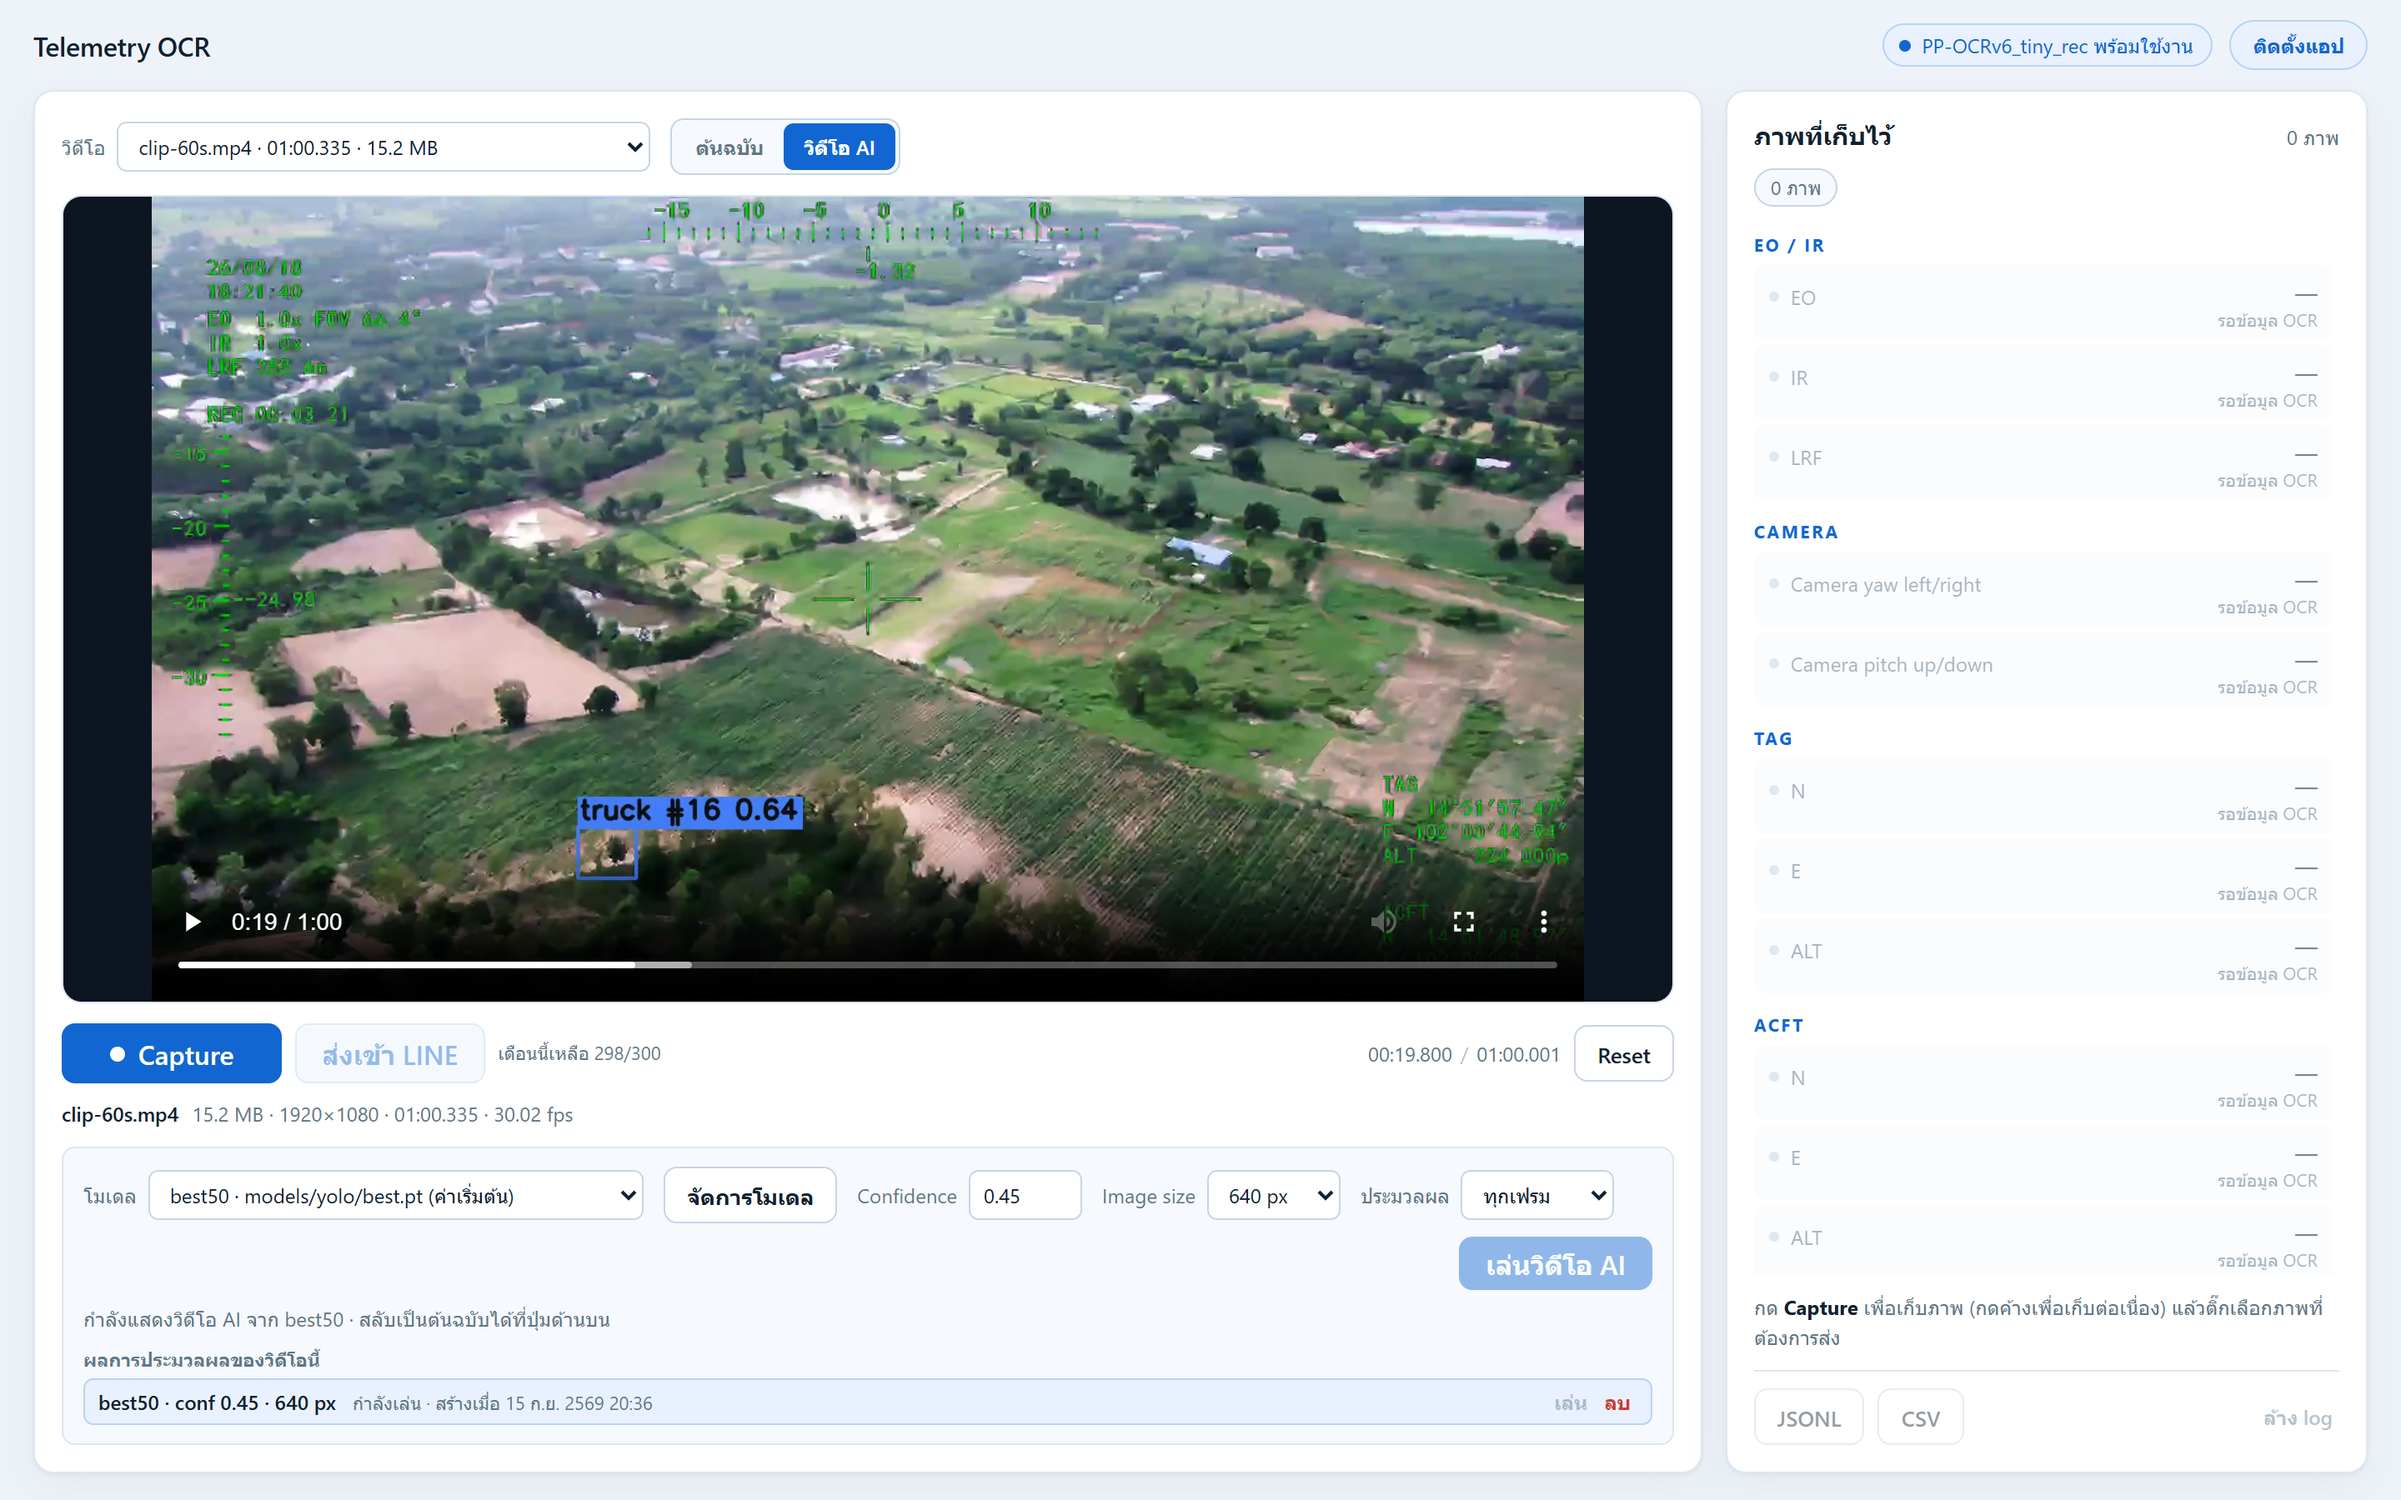
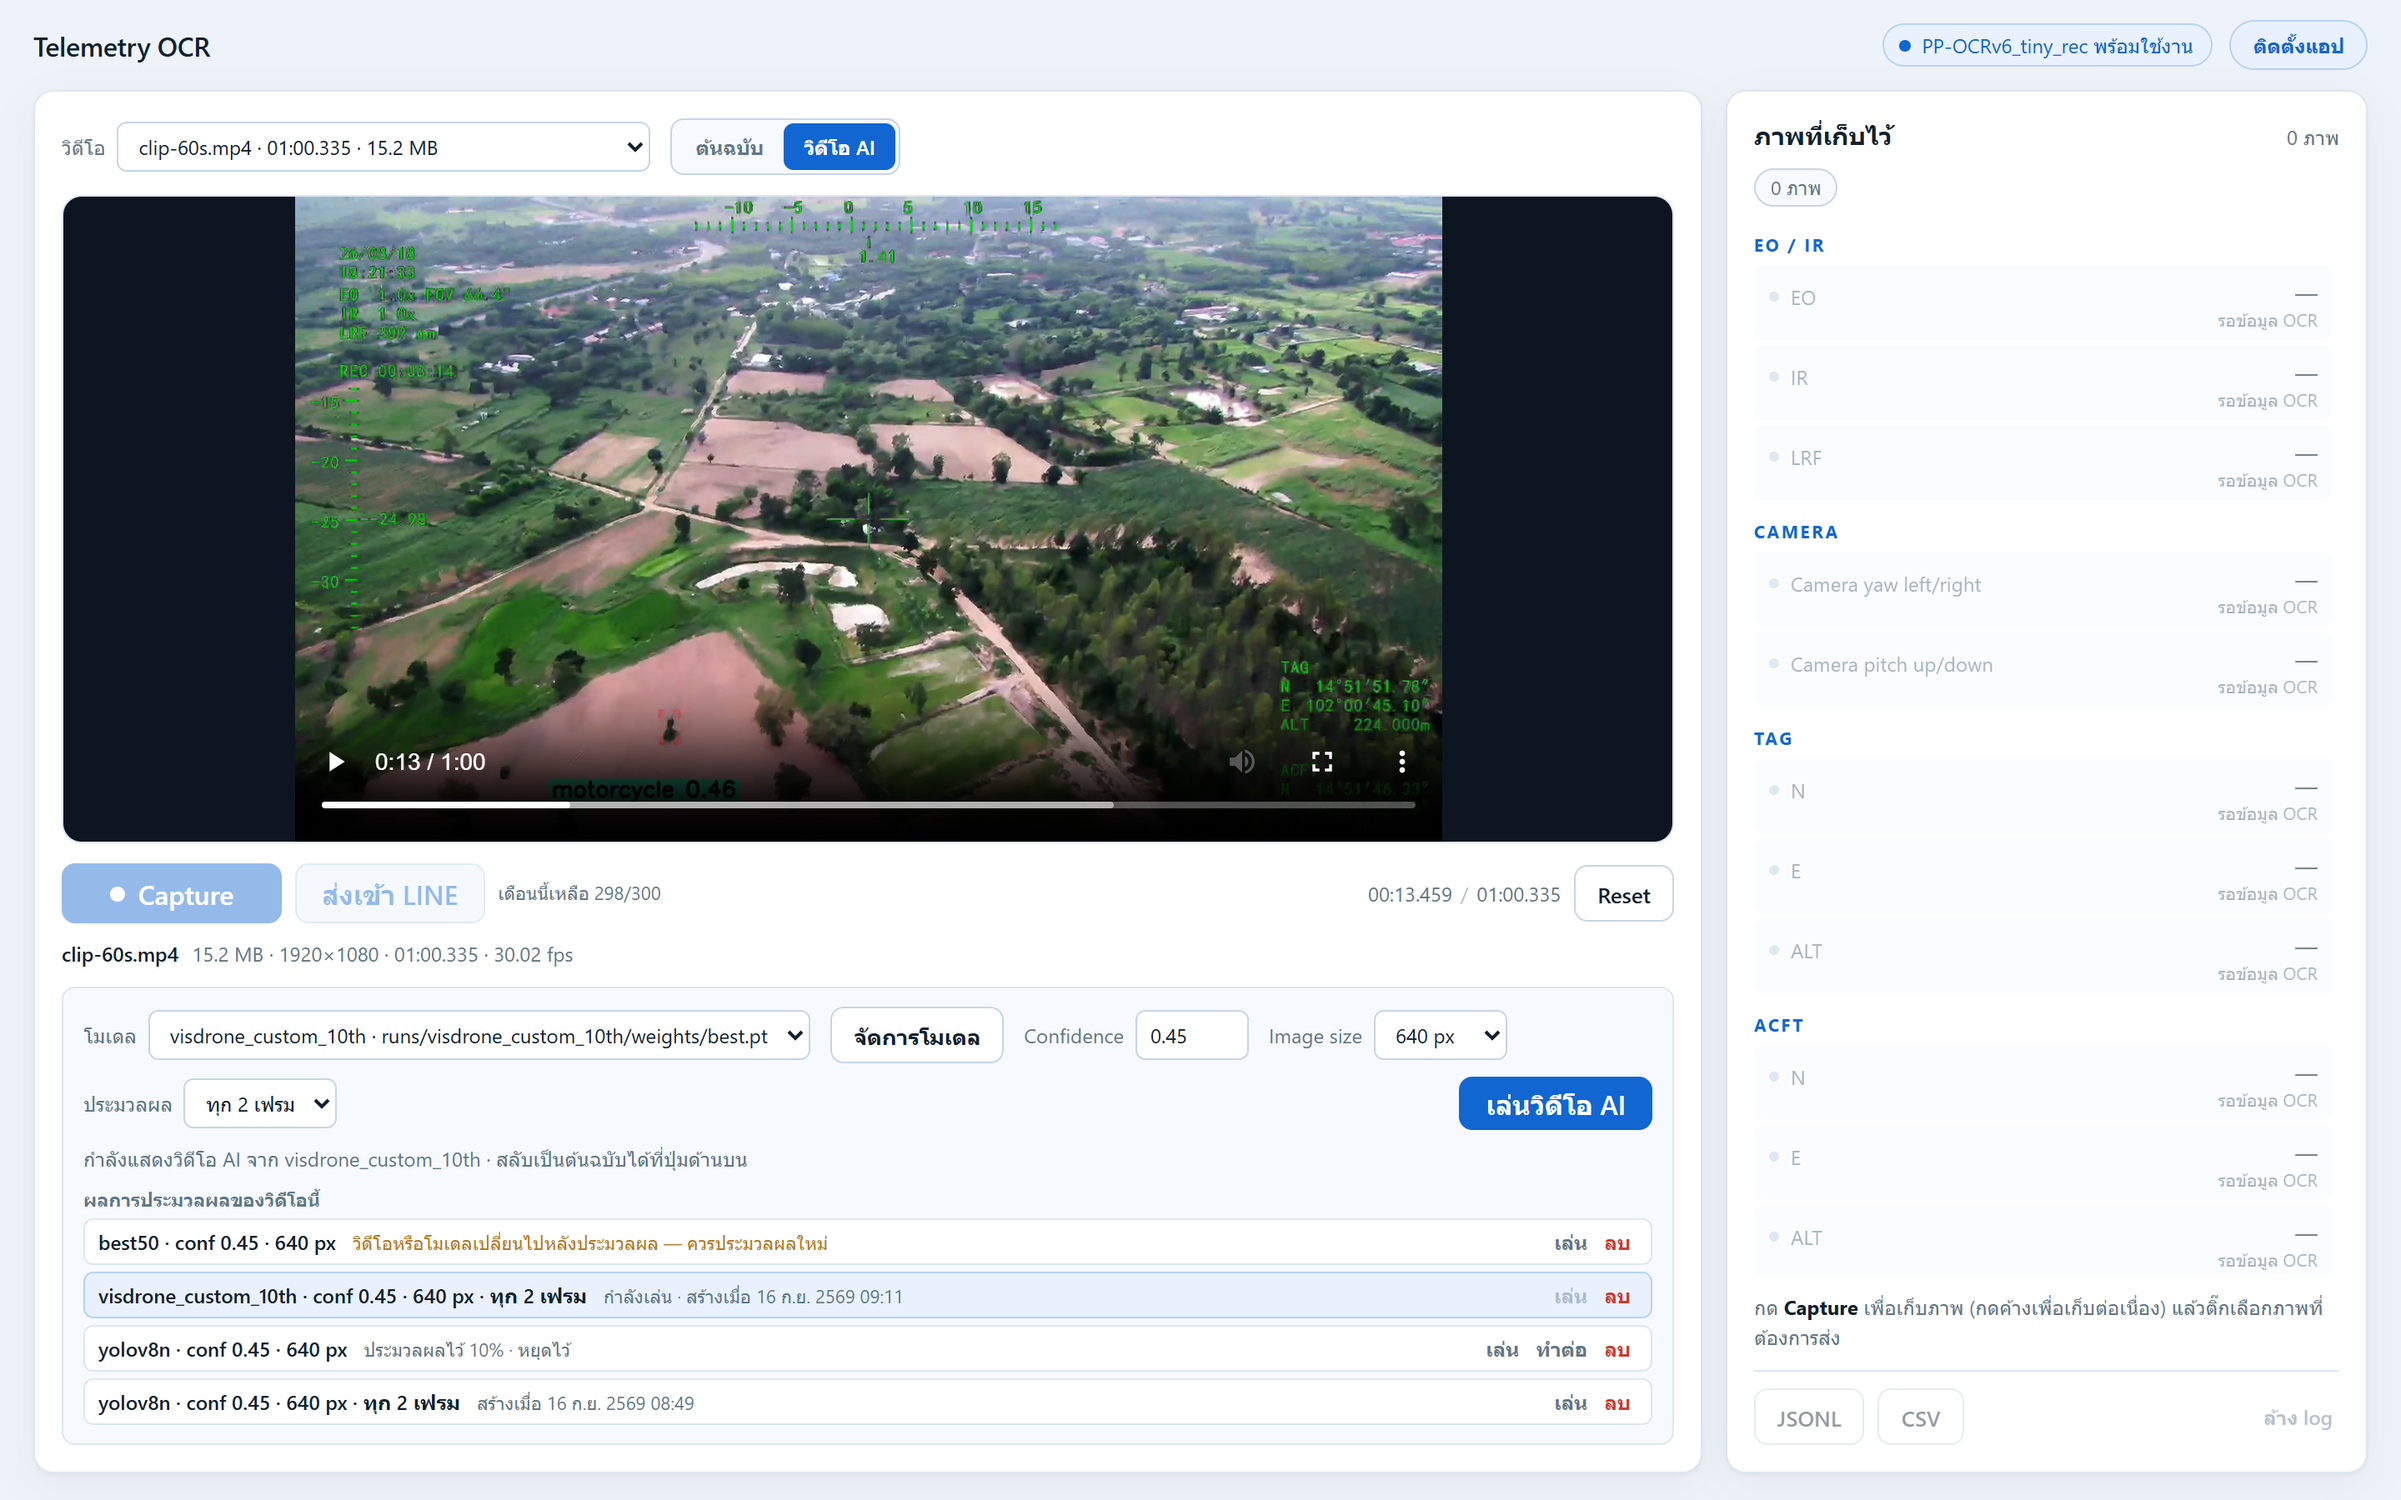
Retake the guide screenshots for watching a render being made
Photographed against the test server with visdrone_custom_10th: the panel while
a render runs, the same panel after cancelling with its ทำต่อ button, and the
finished AI video. The moments with boxes come from the render's own tracks, and
the original is now photographed with the view switch on screen.

diff --git a/docs/user-guide/capture_screens.py b/docs/user-guide/capture_screens.py
@@ -226,8 +226,12 @@ async def render_for_the_pictures(cdp: Cdp) -> str:
     finished = await cdp.js("Boolean(matchingRender())")
     if finished:
         # A finished render is already there to photograph playing, so the
-        # in-progress pictures are taken of a throwaway at another setting.
-        await cdp.js("renderStride.value = '3'; renderStride.dispatchEvent(new Event('change'))")
+        # in-progress pictures are taken of a throwaway at another confidence --
+        # not another stride, which the panel in those pictures would show.
+        await cdp.js(
+            "renderConfidence.value = '0.50';"
+            " renderConfidence.dispatchEvent(new Event('change'))"
+        )
     await cdp.js("renderButton.click()")
     await cdp.wait_for(
         "state.renderJob && state.renderJob.status === 'running' && state.renderProcessedS > 6",
@@ -247,26 +251,38 @@ async def render_for_the_pictures(cdp: Cdp) -> str:
     await shot(cdp, "05b-render-partial", "#aiPanel")
 
     await click_render_action(cdp, render_id, "ทำต่อ")
-    await cdp.wait_for(
-        "state.renders.some((render) => render.render_id === "
-        f"{json.dumps(render_id)} && render.status === 'complete')",
-        timeout=1800, label="the render to finish",
-    )
-    if finished:
-        await cdp.js("renderStride.value = '2'; renderStride.dispatchEvent(new Event('change'))")
-        await asyncio.sleep(1)
-        # Only ever the one this run started: the settings it was made at are
-        # the ones set above, and nothing else here renders at them.
-        await cdp.js(
-            "(async () => {"
-            f"  const params = new URLSearchParams({{ render: {json.dumps(render_id)} }});"
-            "  await fetch(`/api/renders?${params}`,"
-            "    { method: 'DELETE', headers: { 'X-Telemetry-OCR': '1' } });"
-            "  await refreshRenders();"
-            "})()"
+    if not finished:
+        await cdp.wait_for(
+            "state.renders.some((render) => render.render_id === "
+            f"{json.dumps(render_id)} && render.status === 'complete')",
+            timeout=1800, label="the render to finish",
         )
-        return await cdp.js("(matchingRender() || {}).render_id || ''")
-    return render_id
+        return render_id
+
+    # The throwaway was only ever for the pictures: let it prove it continues,
+    # then stop it and take it away again.
+    await cdp.wait_for(
+        "state.renderJob && state.renderJob.status === 'running'",
+        timeout=300, label="the continued render",
+    )
+    await cdp.js("renderCancelButton.click()")
+    await cdp.wait_for(
+        "state.renderJob && state.renderJob.status === 'cancelled'",
+        timeout=120, label="the throwaway to stop",
+    )
+    await cdp.js(
+        "renderConfidence.value = '0.45'; renderConfidence.dispatchEvent(new Event('change'))"
+    )
+    await cdp.js(
+        "(async () => {"
+        f"  const params = new URLSearchParams({{ render: {json.dumps(render_id)} }});"
+        "  await fetch(`/api/renders?${params}`,"
+        "    { method: 'DELETE', headers: { 'X-Telemetry-OCR': '1' } });"
+        "  await refreshRenders();"
+        "})()"
+    )
+    await asyncio.sleep(1)
+    return await cdp.js("(matchingRender() || {}).render_id || ''")
 
 
 async def main() -> None:
@@ -321,20 +337,34 @@ async def main() -> None:
                         " modelSelect.dispatchEvent(new Event('change'))"
                     )
                 await cdp.wait_for("state.video && sourceVideo.readyState >= 2", label="the video")
-                await seek(cdp, 5)
-                await shot(cdp, "02-original")
 
                 render_id = await render_for_the_pictures(cdp)
                 times = box_times(render_id)
                 print("moments with boxes:", times)
 
-                await cdp.js("viewRendered.click()")
+                # The button plays the finished render when nothing is on screen;
+                # when the render just made is already showing, it is the switch.
+                await cdp.js(
+                    "if (state.activeRender) viewRendered.click(); else renderButton.click()"
+                )
                 await cdp.wait_for(
                     "state.view === 'rendered' && sourceVideo.readyState >= 2", label="the AI video"
                 )
                 await seek(cdp, times[0])
                 await shot(cdp, "03-ai-video")
                 await shot(cdp, "04-ai-panel", "#aiPanel")
+
+                await cdp.js("viewOriginal.click()")
+                await cdp.wait_for(
+                    "state.view === 'original' && sourceVideo.readyState >= 2", label="the original"
+                )
+                await seek(cdp, times[0])
+                await shot(cdp, "02-original")
+                await cdp.js("viewRendered.click()")
+                await cdp.wait_for(
+                    "state.view === 'rendered' && sourceVideo.readyState >= 2", label="the AI video"
+                )
+                await seek(cdp, times[0])
 
                 await cdp.js("manageModelsButton.click()")
                 await cdp.wait_for(
